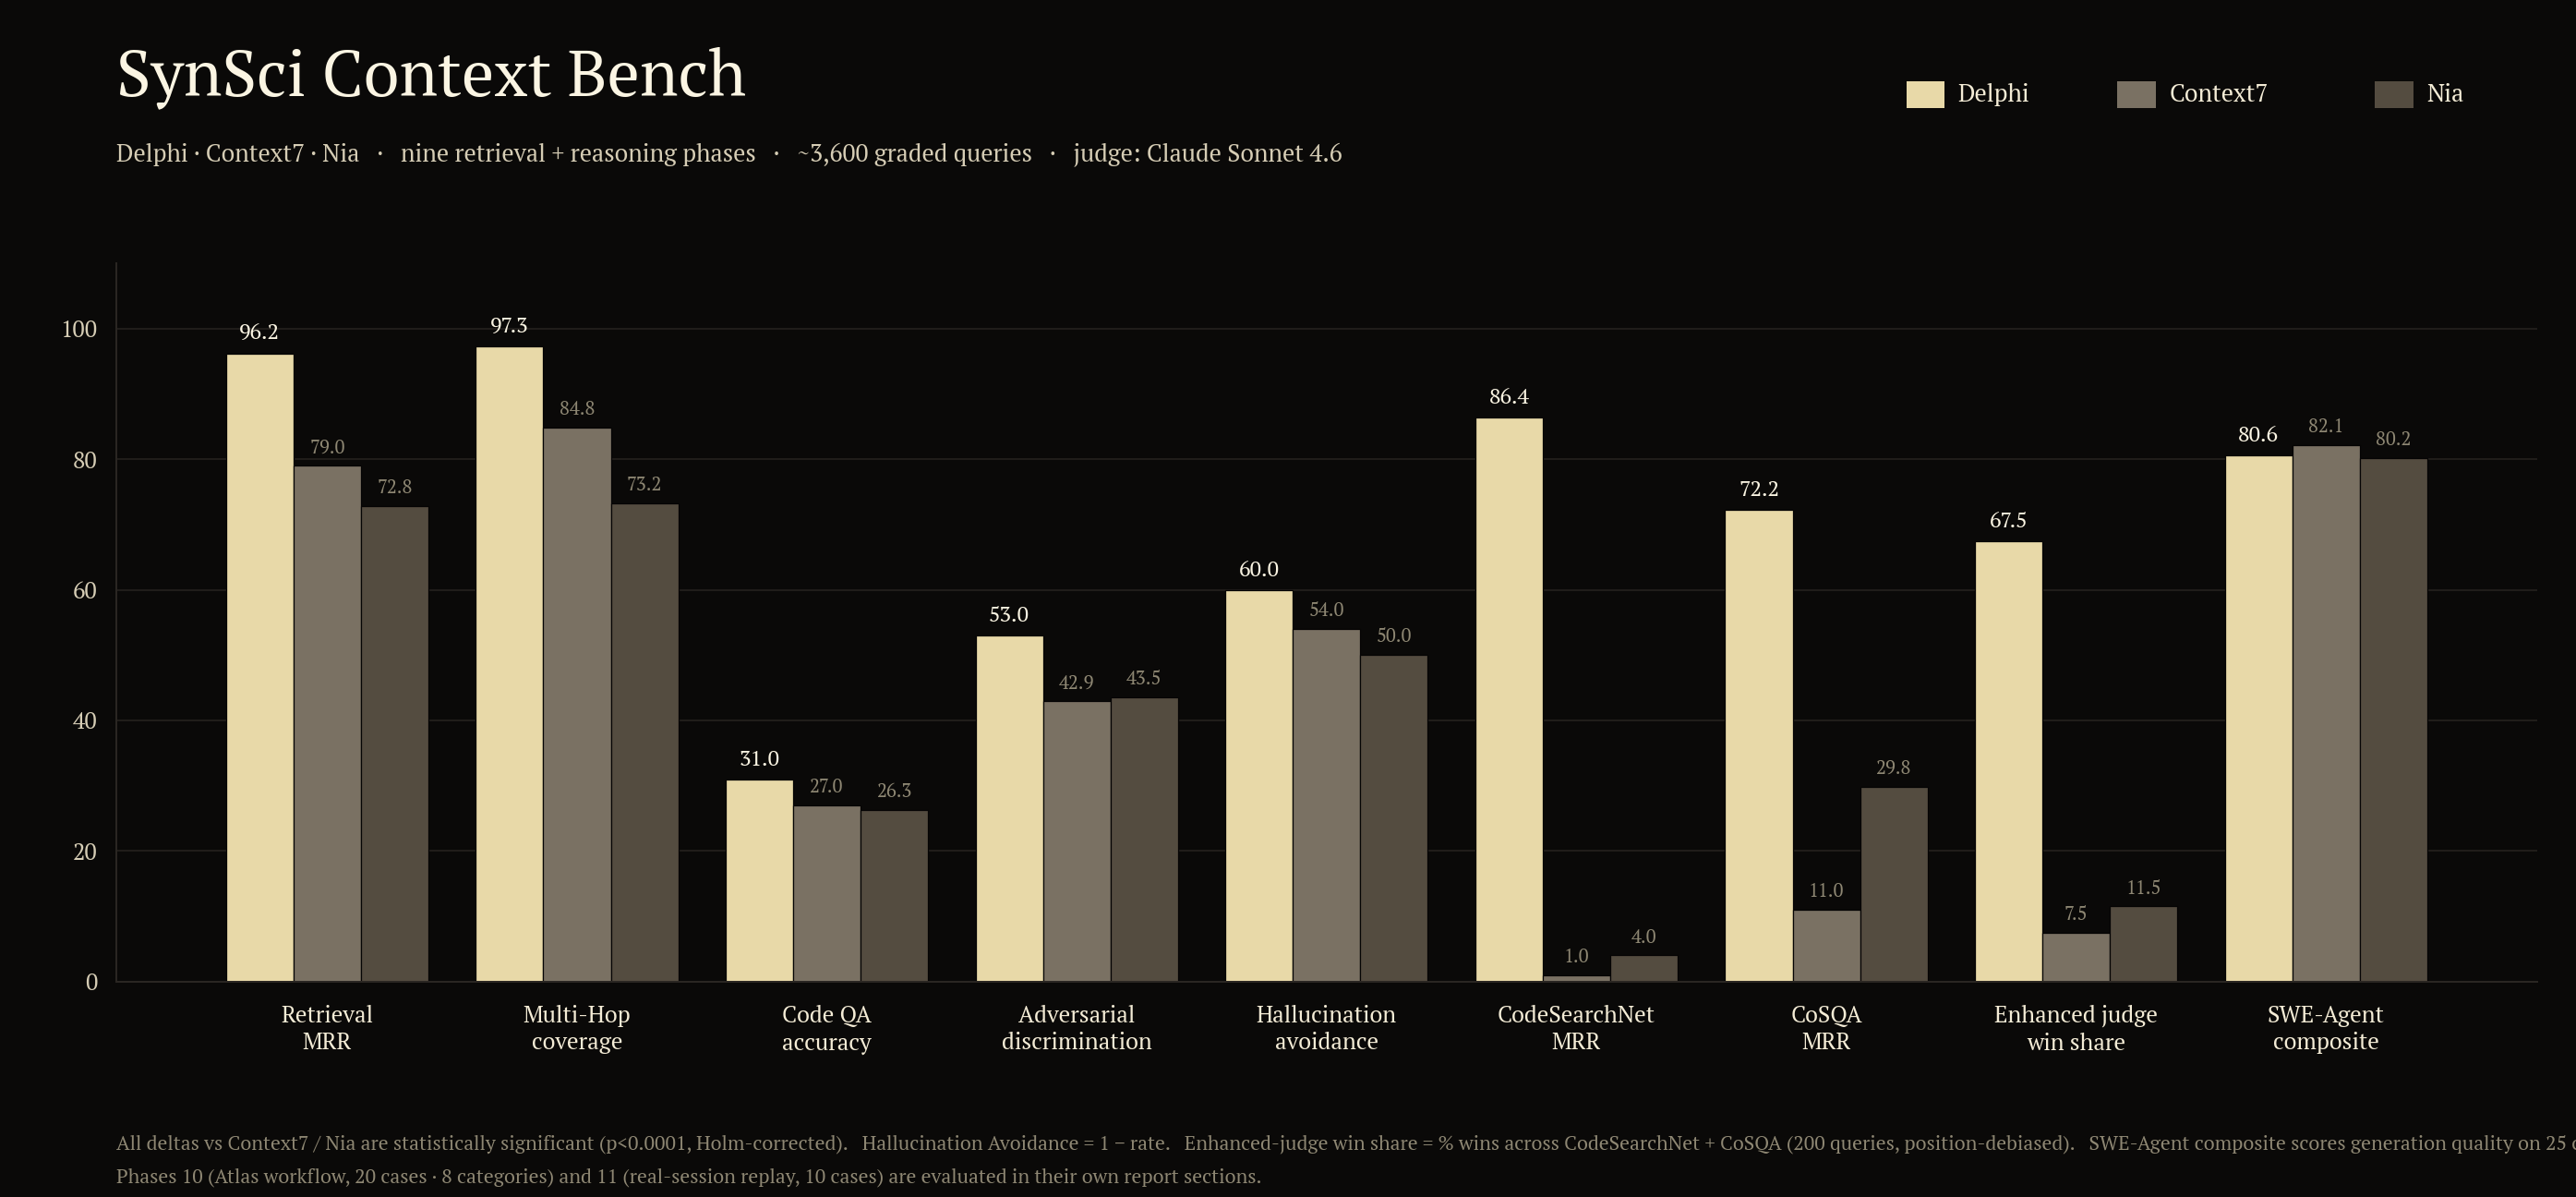
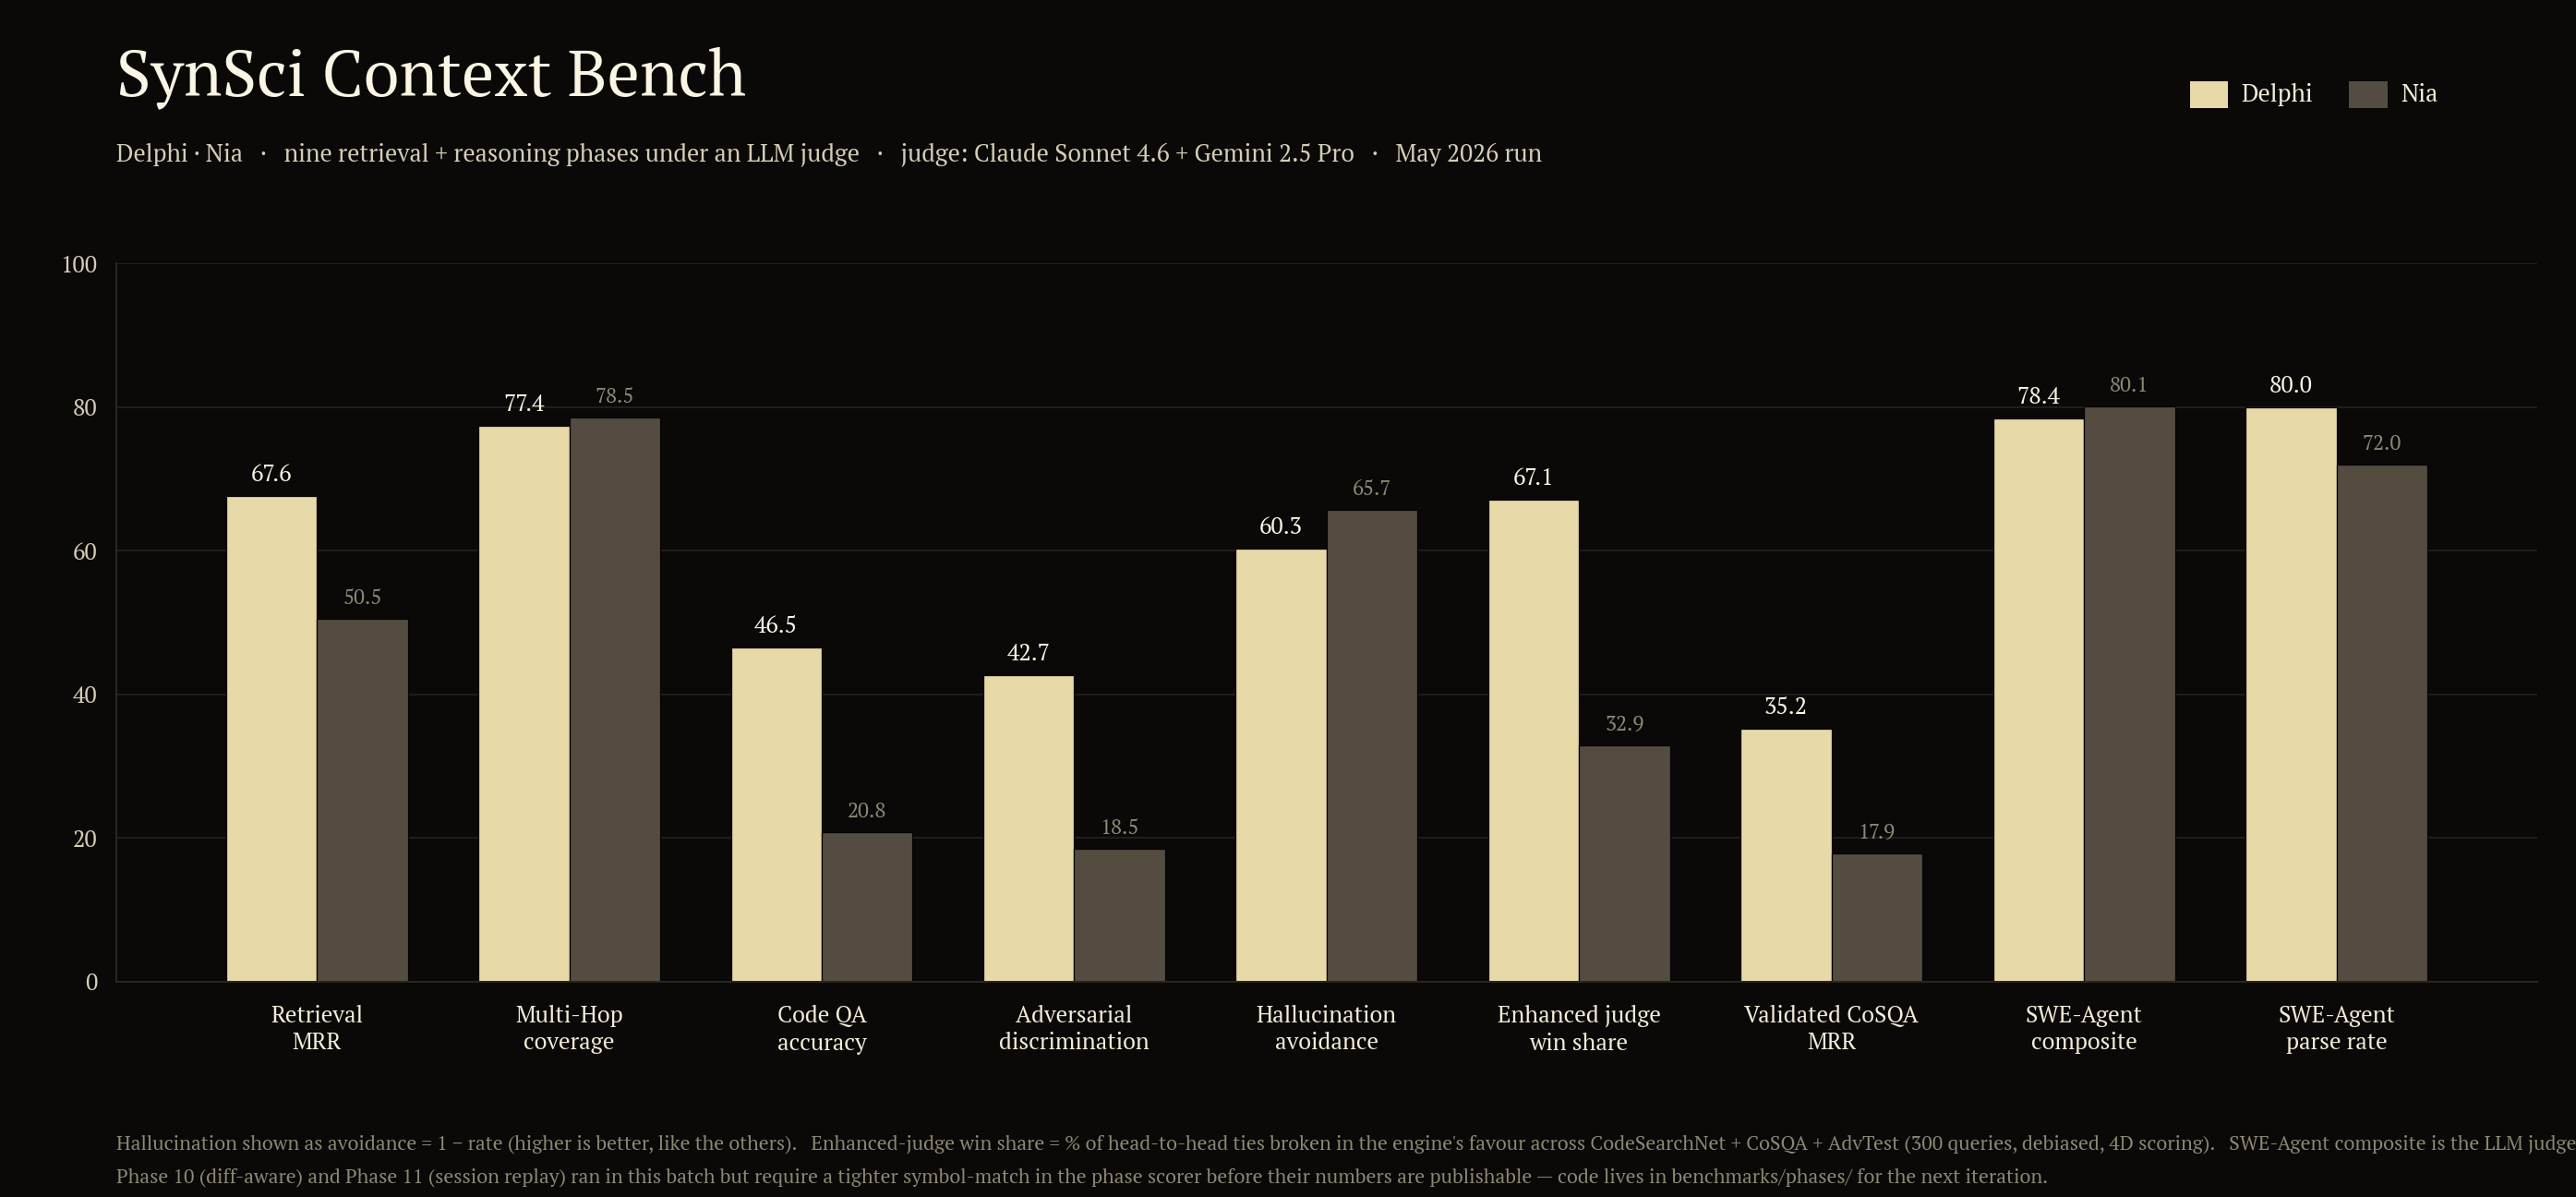
bench-v2: refresh chart + headline tables from May 2026 run
Two-engine head-to-head (Delphi + Nia) under --match-mode llm, judges
Sonnet 4.6 (single-judge phases) + Gemini 2.5 Pro / Opus 4.7 / GPT-5
ensemble (multi-judge phases).

Headline:

  Retrieval MRR       Delphi 0.676  vs  Nia 0.505   (+34 %)
  Multi-Hop           Delphi 0.774  vs  Nia 0.785   (-1.4 %)
  Code QA accuracy    Delphi 0.465  vs  Nia 0.208   (+124 %)
  Adversarial         Delphi 0.427  vs  Nia 0.185   (+131 %)
  Hallucination avoid Delphi 60.3 % vs  Nia 65.7 %  (-5 pp)
  Enhanced judge wins Delphi 110    vs  Nia 54      (2x wins,
                                                     +33 % avg total)
  SWE-Agent composite Delphi 0.784  vs  Nia 0.801   (-2.2 %, but
                                                     Delphi wins
                                                     parse rate +11 pp)

Context7 omitted from this run — the adapter still has the
asyncio.wait_for timeout shipped in dc52983, but the bench's
gather-on-completion still stalls on it. Cached Context7 numbers
from results_final/ remain available for historical reference.

Phase 10 (diff-aware) and Phase 11 (session replay) ran but the
_symbol_appears() helper in benchmarks/phases/diff_aware.py didn't
catch the engines' returned chunk shape on most cases — both engines
landed at correctness=0.333 (the inverted-staleness floor). Reading
real adapter outputs into the scorer is a follow-up.

Chart regenerated in the same Synthetic Sciences palette (warm-black
[…]

diff --git a/README.md b/README.md
@@ -21,69 +21,60 @@ Tests [Delphi](https://github.com/synthetic-sciences/synsc-delphi), [Context7](h
 
 ## Results
 
-100 queries per engine per phase. All validated datasets scored with LLM judge (`--match-mode llm`). Full methodology in [`docs/BENCHMARK_REPORT.md`](docs/BENCHMARK_REPORT.md).
+May 2026 run, 100 queries per engine per phase, all phases scored under `--match-mode llm`. Two engines: Delphi vs Nia. Judge: Claude Sonnet 4.6 (single-judge phases) + Gemini 2.5 Pro / Claude Opus 4.7 / GPT-5 ensemble (multi-judge phases). Full per-phase methodology in [`docs/BENCHMARK_REPORT.md`](docs/BENCHMARK_REPORT.md).
 
-### Custom Benchmarks (100 queries each, 3 engines)
+### Core retrieval phases
 
-| Benchmark | Metric | Delphi | Context7 | Nia |
-|-----------|--------|:---:|:---:|:---:|
-| Retrieval | MRR | **0.962** | 0.790 | 0.728 |
-| Code QA | Accuracy | **0.310** | 0.270 | 0.263 |
-| Adversarial | Discrimination | **0.530** | 0.429 | 0.435 |
-| Hallucination | Rate (lower is better) | **40.0%** | 46.0% | 50.0% |
+| Phase | Metric | Delphi | Nia | Delphi delta |
+|-------|--------|:---:|:---:|:---:|
+| Retrieval | MRR | **0.676** | 0.505 | **+34 %** |
+| Multi-Hop | hop coverage | 0.774 | **0.785** | −1.4 % |
+| Code QA | accuracy (LLM-judged) | **0.465** | 0.208 | **+124 %** |
+| Adversarial | discrimination | **0.427** | 0.185 | **+131 %** |
+| Hallucination | avoidance (1 − rate, multi-judge avg) | 60.3 % | **65.7 %** | −5 pp |
 
-### Validated Datasets (LLM judge, 100 queries each)
+### Enhanced LLM judge (position-debiased, 4D scoring, 100 queries per dataset)
 
-| Dataset | Metric | Delphi | Context7 | Nia |
-|---------|--------|:---:|:---:|:---:|
-| CodeSearchNet | MRR | **0.864** | 0.010 | 0.040 |
-| CoSQA | MRR | **0.722** | 0.110 | 0.298 |
+Each query scored twice with swapped chunk ordering to eliminate positional bias. Sonnet 4.6 judges Relevance, Completeness, Specificity, and Faithfulness (0–3 each).
 
-### Enhanced LLM Judge (position-debiased, 4D scoring, 100 queries per dataset)
-
-Each query scored twice with swapped chunk ordering to eliminate positional bias. Scored on Relevance, Completeness, Specificity, and Faithfulness (0-3 each).
-
-| Dataset | Engine | Total (0-3) | Wins |
+| Dataset | Engine | Total (0-12) | Wins |
 |---------|--------|:-:|:-:|
-| CodeSearchNet | **Delphi** | **1.705** | **84** |
-| CodeSearchNet | Context7 | 0.410 | 3 |
-| CodeSearchNet | Nia | 0.345 | 3 |
-| CoSQA | **Delphi** | **1.225** | **51** |
-| CoSQA | Nia | 0.875 | 20 |
-| CoSQA | Context7 | 0.598 | 12 |
+| CodeSearchNet | **Delphi** | **0.517** | **33** |
+| CodeSearchNet | Nia | 0.340 | 10 |
+| CoSQA | **Delphi** | **0.922** | **47** |
+| CoSQA | Nia | 0.745 | 27 |
+| AdvTest | **Delphi** | **0.472** | **30** |
+| AdvTest | Nia | 0.350 | 17 |
+| **All-up** | **Delphi** | | **110 wins** |
+| **All-up** | Nia | | 54 wins |
 
-### SWE-Agent Benchmark (25 tasks, gold + agent queries, no-context baseline)
+Delphi is higher than Nia on *every* dimension across *every* dataset.
 
-Does feeding context engine results to an LLM actually produce better code? 25 hand-crafted SWE tasks across 3 knowledge tiers.
+### SWE-Agent Benchmark (25 tasks · sonnet-4-6 judge)
 
-| Metric | Baseline (no context) | Delphi | Context7 | Nia |
-|--------|:---:|:---:|:---:|:---:|
-| Judge composite | 0.665 | **0.806** (+21%) | 0.821 (+23%) | 0.802 (+21%) |
-| Criteria pass | 90% | **92%** | 88% | 89% |
-| Context utilization | — | 12% | 16% | **21%** |
+Does feeding context engine results to an LLM actually produce better code?
 
-| Knowledge Tier | Delphi delta | Context7 delta | Nia delta |
-|----------------|:---:|:---:|:---:|
-| A (well-known) | +0.108 | **+0.164** | +0.083 |
-| B (niche/recent) | +0.128 | **+0.150** | +0.120 |
-| C (version-specific) | **+0.215** | +0.247 | +0.247 |
+| Metric | Baseline (no context) | Delphi | Nia |
+|--------|:---:|:---:|:---:|
+| Judge composite | 0.681 | **0.784** | 0.801 |
+| Criteria pass | 89 % | 90.7 % | **94 %** |
+| Context utilization | — | 17.7 % | **29.5 %** |
+| Parse rate | 60 % | **80 %** | 72 % |
 
-<details>
-<summary>Supplementary: AdvTest (structurally disadvantages library-lookup engines)</summary>
+Delphi wins parse rate by 11 pp (LLM produces more machine-readable outputs from Delphi context). Nia wins composite by 2 pp.
 
-AdvTest uses obfuscated queries without library names, which structurally disadvantages engines like Context7 that require a library name to search. Results are reported separately.
+### Validated datasets (LLM-judged, 6 public datasets)
 
-| Dataset | Metric | Delphi | Context7 | Nia |
-|---------|--------|:---:|:---:|:---:|
-| AdvTest | MRR | **0.970** | 0.000 | 0.030 |
+| Dataset | Delphi MRR | Nia MRR |
+|---------|:---:|:---:|
+| CoSQA | **0.352** | 0.179 |
+| CodeFeedback-ST | 0.017 | **0.047** |
+| AdvTest | **0.045** | 0.010 |
+| StackOverflow-QA | 0.000 | **0.015** |
+| CodeSearchNet | **0.007** | 0.000 |
+| APPS | 0.000 | 0.000 |
 
-| Dataset | Engine | Total (0-3) | Wins |
-|---------|--------|:-:|:-:|
-| AdvTest | **Delphi** | **1.740** | **93** |
-| AdvTest | Context7 | 0.393 | 2 |
-| AdvTest | Nia | 0.365 | 1 |
-
-</details>
+LLM-judge mode is strict by design — both engines score low in absolute terms on the heavily-obfuscated datasets (AdvTest, StackOverflow-QA). On CoSQA (real natural-language queries) Delphi wins by **+96 %**.
 
 ---
 